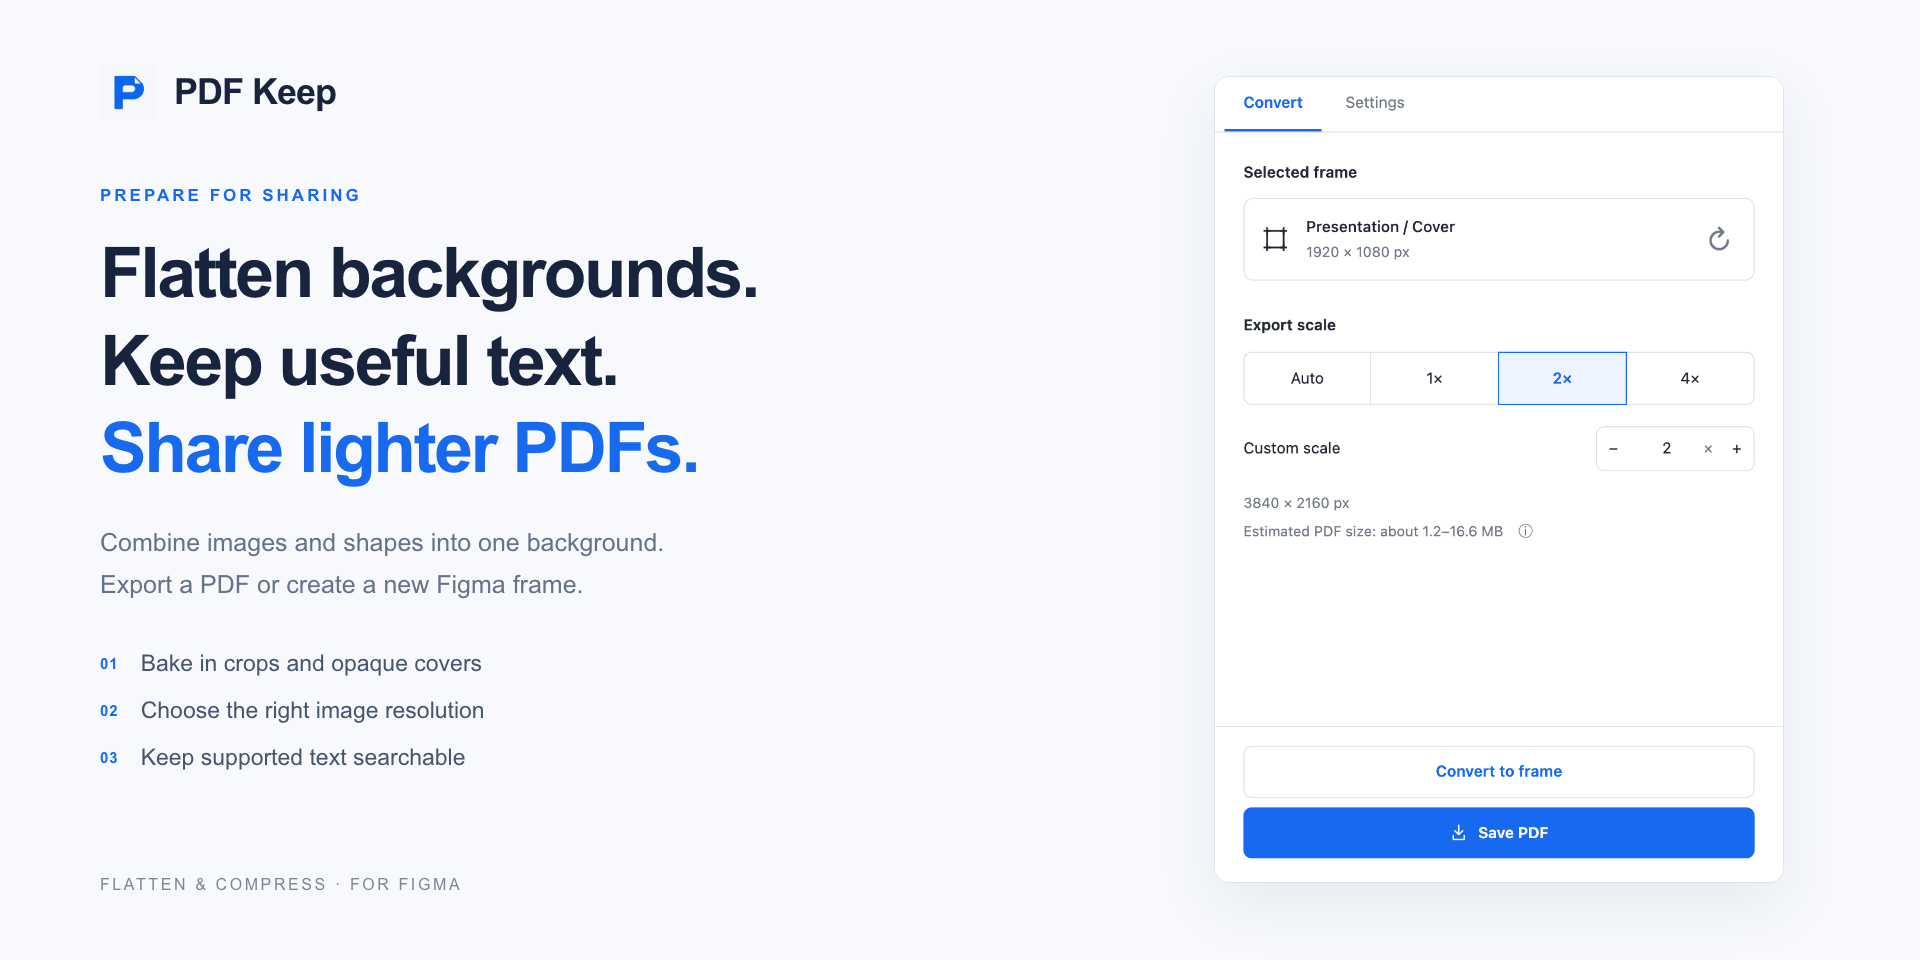
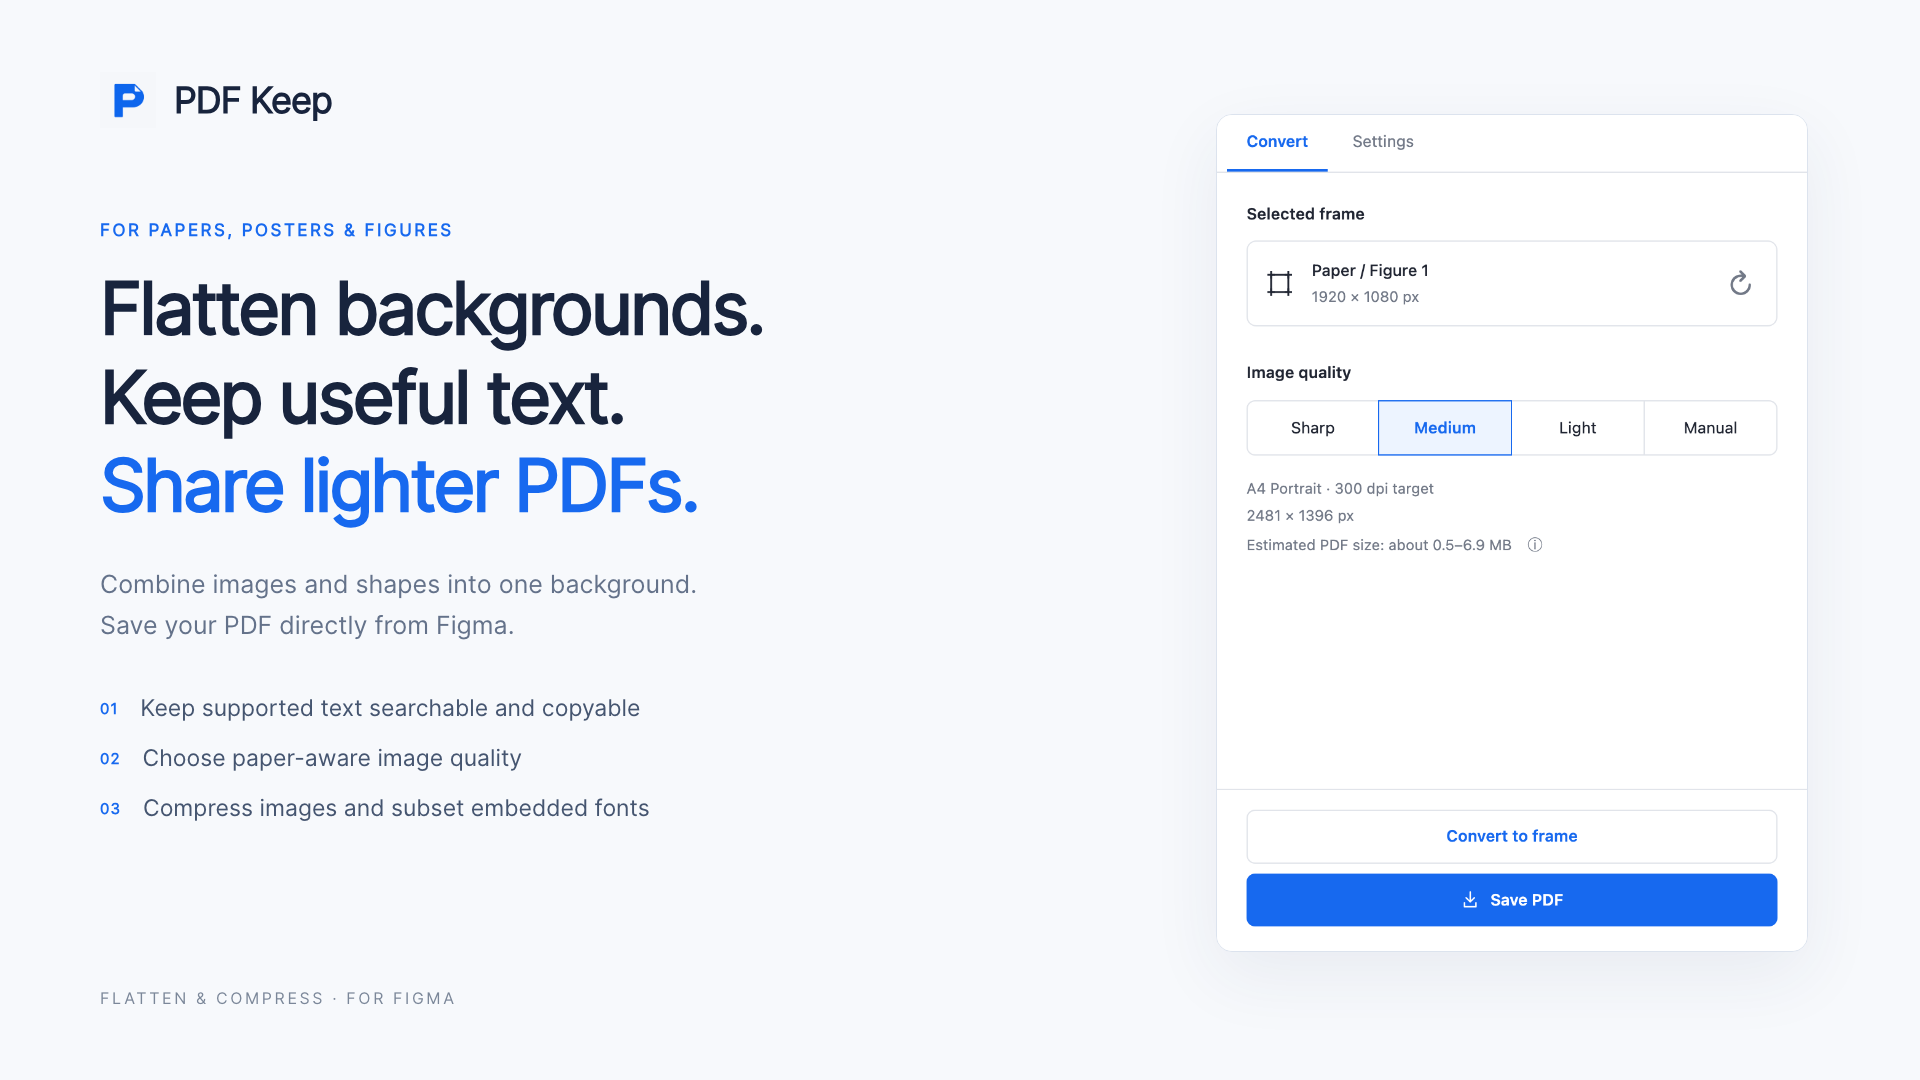
公開準備

diff --git a/docs/development.md b/docs/development.md
@@ -52,6 +52,8 @@ This runs ESLint, Prettier’s formatting check, TypeScript, unit and integratio
 
 Build before running a browser command directly. Use `PLAYWRIGHT_CHANNEL=chrome` to test with an installed Chrome instead of Playwright’s Chromium. Set `POPPLER_BIN` to override the Poppler executable directory; macOS also checks `/opt/homebrew/opt/poppler/bin`.
 
+The shared browser harness disables font hinting so Linux screen-pixel adjustments do not change glyph advances relative to the PDF's scalable font metrics. Visual tests still check glyph coverage, decoration placement, and layout; the opacity comparison allows a difference of up to three 8-bit color levels between Chromium and Poppler.
+
 Screenshots, comparisons, and extracted data go to `tmp/qa/`; generated PDFs go to `output/pdf/`. Both are ignored by Git.
 
 ## Project structure
@@ -113,6 +115,8 @@ The searchable PDF exporter losslessly compresses its flattened RGB background w
 
 ## Distribution and CI
 
+The English Community gallery images are `assets/teaser-en.png` (cover) and `assets/subteaser-features-en.png` (feature overview), both 1920 × 1080 px. Run `npm run render:promo` to rebuild them with actual screenshots of the current English UI. This requires Playwright Chromium; temporary HTML and screenshots stay in the ignored `tmp/promo/` directory. Upload the cover first and the feature overview second when publishing to Figma Community.
+
 ```sh
 npm run package
 ```
@@ -121,4 +125,15 @@ This creates `output/pdf-keep-plugin.zip` from an explicit set of runtime files,
 
 GitHub Actions (`.github/workflows/ci.yml`) runs on pushes and pull requests. Separate jobs check source/build output and browser/PDF behavior. The workflow uploads build files and QA results as artifacts. Live-network tests remain opt-in.
 
-The manifest currently has a local-development plugin ID. Figma Community publication is separate from publishing this repository and requires the ID issued by Figma. Keep the existing font-storage key when changing public branding so saved fonts remain accessible.
+## Figma Community publication
+
+`manifest.json`'s `api: "1.0.0"` selects the Figma API version. It is independent of the product version in `package.json` and `package-lock.json`, currently both `0.1.0`. Do not copy the package version into `api` or add a product `version` field to the manifest. Use `npm version patch --no-git-tag-version` when intentionally bumping a patch release; this updates both package files. The npm `private: true` setting prevents npm publication and can stay enabled for a Figma plugin. See the [manifest specification](https://developers.figma.com/docs/plugins/manifest/).
+
+Before the first Community submission:
+
+1. Create the plugin registration in Figma Desktop and replace `manifest.json`'s `paper-pdf-local-development` ID with the ID issued by Figma. Copy only the ID; keep the existing `dist/code.js` and `dist/ui.html` paths and other settings. Keep that ID for subsequent updates.
+2. Enable two-factor authentication for the publishing account and prepare a support contact. Use the current English description, logo and gallery images in the publishing dialog; they are not manifest fields.
+3. Run `npm run check` and verify PDF saving in the Figma Desktop development plugin. Confirm Google Fonts loading, searchable text and the exported appearance. Rebuild after changing source files.
+4. Open **Plugins → Manage plugins → Publish** in Figma Desktop and submit the built plugin for review. Publishing the GitHub repository or creating a distribution ZIP does not submit to Community.
+
+The existing `editorType: ["figma"]`, `documentAccess: "dynamic-page"`, and network allowlist restricted to `https://fonts.gstatic.com` match the current implementation. No additional user or team permissions are needed. Keep the existing font-storage key so future updates preserve saved fonts within the same plugin identity. See Figma's [publishing instructions](https://help.figma.com/hc/en-us/articles/360042293394-Publish-classic-plugins-to-the-Figma-Community).
